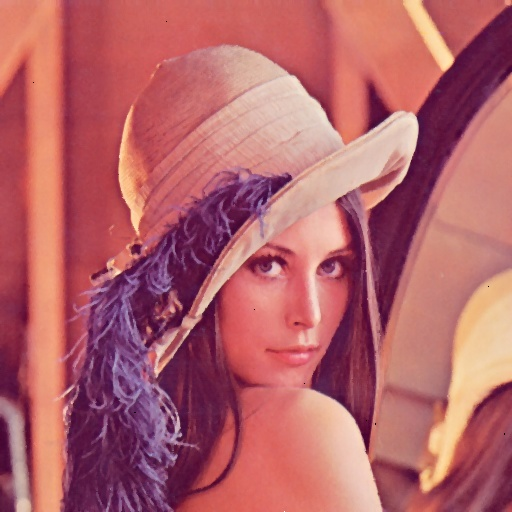
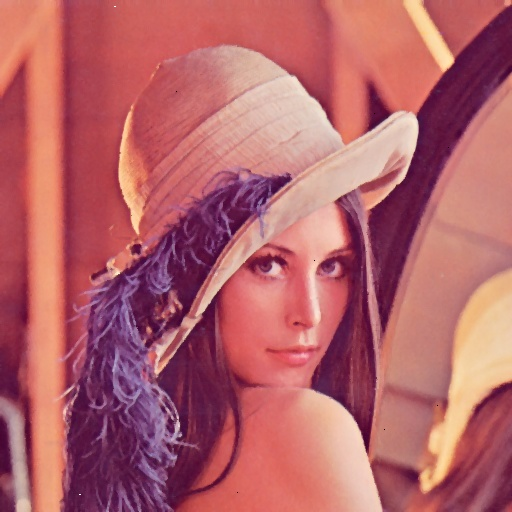
Q6 atualizada: P&B removido do filtro dos k-proximos e moda

Changed region(s): [[0.3125, 0.8125, 0.3438, 0.8438]]

diff --git a/trab01/q6.cpp b/trab01/q6.cpp
@@ -87,27 +87,30 @@ Mat filtroMedia(const Mat& imagem, int ksize) {
 // Filtro dos k vizinhos mais próximos
 Mat filtroKProximos(const Mat& imagem, int k) {
     Mat resultado = imagem.clone();
-    Mat imagem_cinza;
-    cvtColor(imagem, imagem_cinza, COLOR_BGR2GRAY);
 
     for (int y = 1; y < imagem.rows - 1; y++) {
         for (int x = 1; x < imagem.cols - 1; x++) {
-            vector<int> vizinhos;
+            Vec3b& pixel = resultado.at<Vec3b>(y, x);
 
-            // Obter vizinhos 3x3
-            for (int j = -1; j <= 1; j++) {
-                for (int i = -1; i <= 1; i++) {
-                    vizinhos.push_back(imagem_cinza.at<uchar>(y + j, x + i));
+            for (int c = 0; c < 3; c++) {  // Processar cada canal de cor (B, G, R)
+                vector<int> vizinhos;
+
+                // Obter vizinhos 3x3
+                for (int j = -1; j <= 1; j++) {
+                    for (int i = -1; i <= 1; i++) {
+                        vizinhos.push_back(imagem.at<Vec3b>(y + j, x + i)[c]);
+                    }
                 }
-            }
 
-            // Ordenar e calcular média dos k menores valores
-            sort(vizinhos.begin(), vizinhos.end());
-            int soma = 0;
-            for (int i = 0; i < k; i++) {
-                soma += vizinhos[i];
+                // Ordenar e calcular média dos k menores valores
+                sort(vizinhos.begin(), vizinhos.end());
+                int soma = 0;
+                for (int i = 0; i < k; i++) {
+                    soma += vizinhos[i];
+                }
+
+                pixel[c] = saturate_cast<uchar>(soma / k);
             }
-            resultado.at<Vec3b>(y, x) = Vec3b(soma / k, soma / k, soma / k);
         }
     }
 
@@ -127,31 +130,34 @@ Mat filtroModa(const Mat& imagem, int ksize) {
 
     for (int y = 1; y < imagem.rows - 1; y++) {
         for (int x = 1; x < imagem.cols - 1; x++) {
-            vector<int> vizinhos;
+            Vec3b& pixel = resultado.at<Vec3b>(y, x);
 
-            // Obter vizinhos 3x3
-            for (int j = -1; j <= 1; j++) {
-                for (int i = -1; i <= 1; i++) {
-                    Vec3b pixel = imagem.at<Vec3b>(y + j, x + i);
-                    vizinhos.push_back(pixel[0]);  // Usar apenas canal B
+            for (int c = 0; c < 3; c++) {  // Processar cada canal de cor (B, G, R)
+                vector<int> vizinhos;
+
+                // Obter vizinhos 3x3
+                for (int j = -1; j <= 1; j++) {
+                    for (int i = -1; i <= 1; i++) {
+                        vizinhos.push_back(imagem.at<Vec3b>(y + j, x + i)[c]);
+                    }
                 }
+
+                // Calcular moda (valor mais frequente)
+                int moda = vizinhos[0];
+                int max_count = 1;
+                for (int i = 0; i < vizinhos.size(); i++) {
+                    int count = 1;
+                    for (int j = i + 1; j < vizinhos.size(); j++) {
+                        if (vizinhos[i] == vizinhos[j]) count++;
+                    }
+                    if (count > max_count) {
+                        max_count = count;
+                        moda = vizinhos[i];
+                    }
+                }
+
+                pixel[c] = moda;  // Aplicar moda ao canal de cor
             }
-
-            // Calcular moda (valor mais frequente)
-            int moda = vizinhos[0];
-            int max_count = 1;
-            for (int i = 0; i < vizinhos.size(); i++) {
-                int count = 1;
-                for (int j = i + 1; j < vizinhos.size(); j++) {
-                    if (vizinhos[i] == vizinhos[j]) count++;
-                }
-                if (count > max_count) {
-                    max_count = count;
-                    moda = vizinhos[i];
-                }
-            }
-
-            resultado.at<Vec3b>(y, x) = Vec3b(moda, moda, moda);  // Aplicar moda
         }
     }
 
